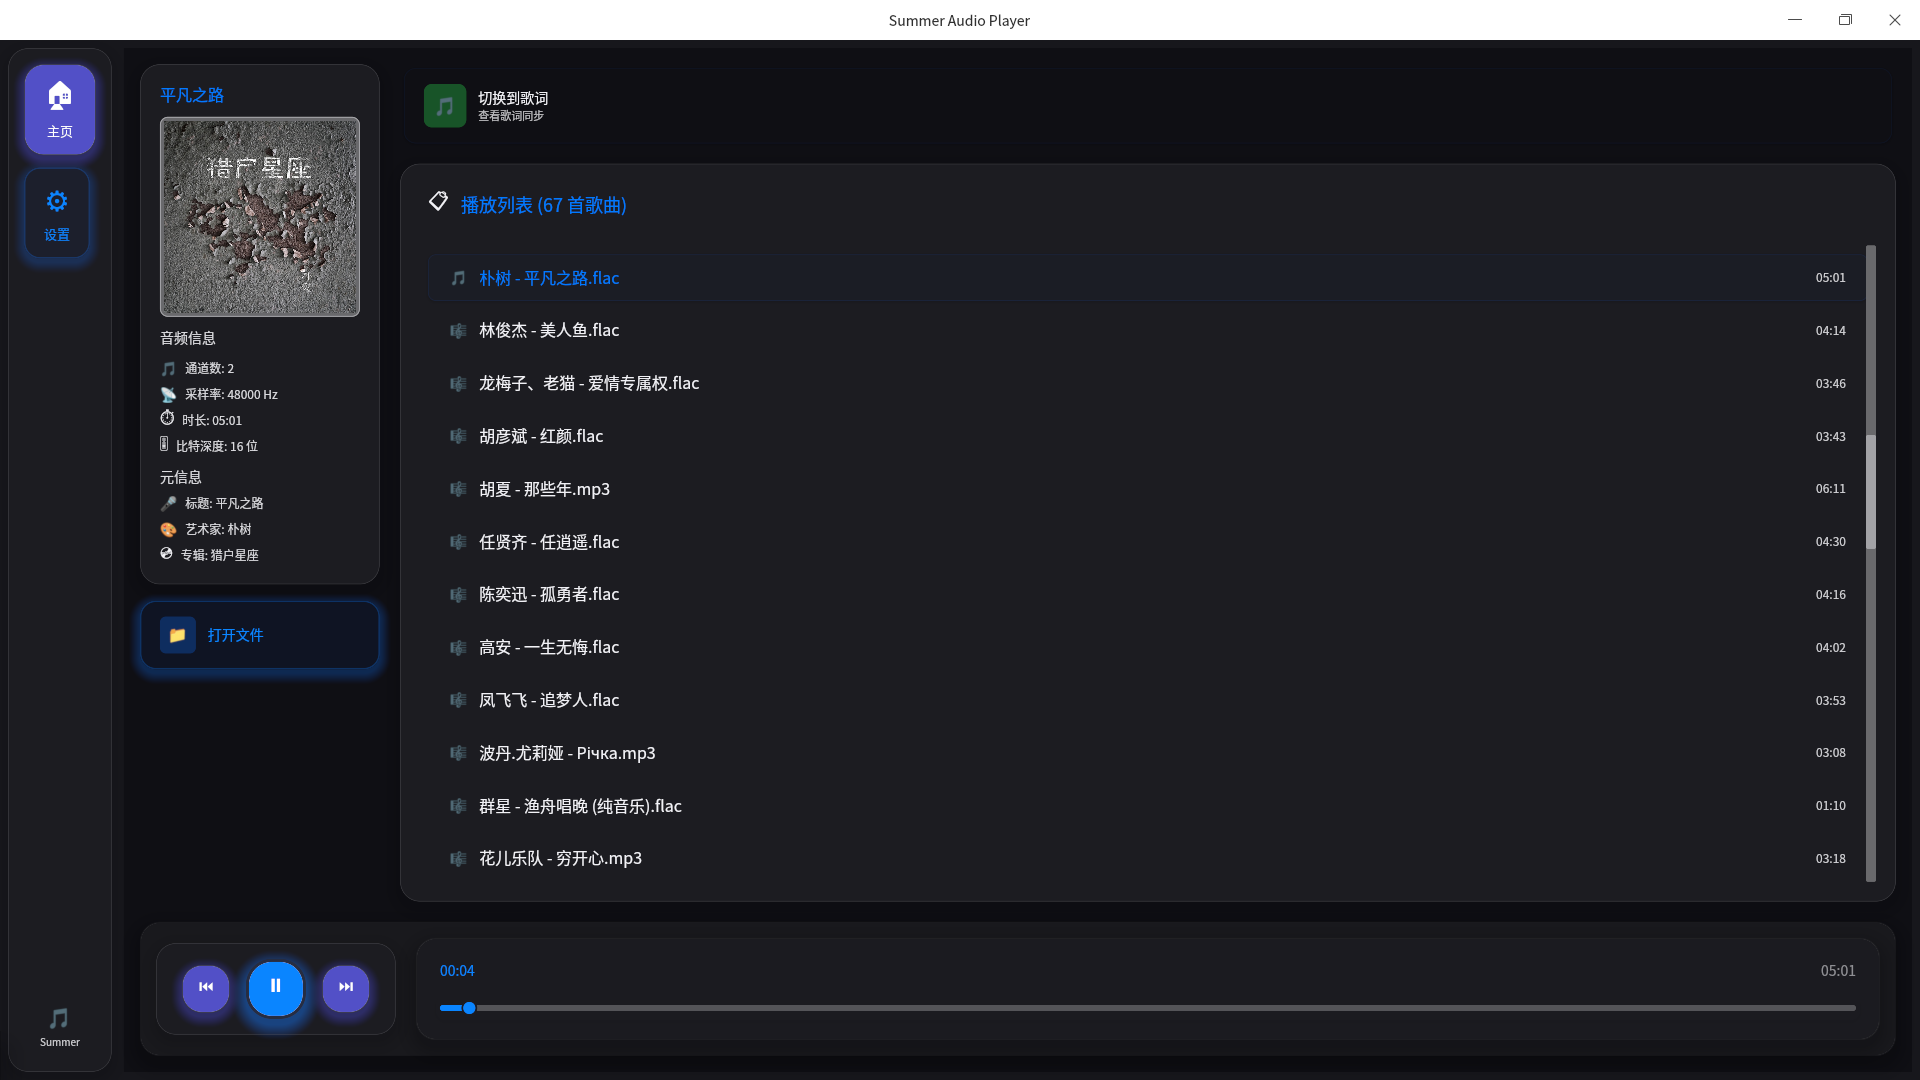
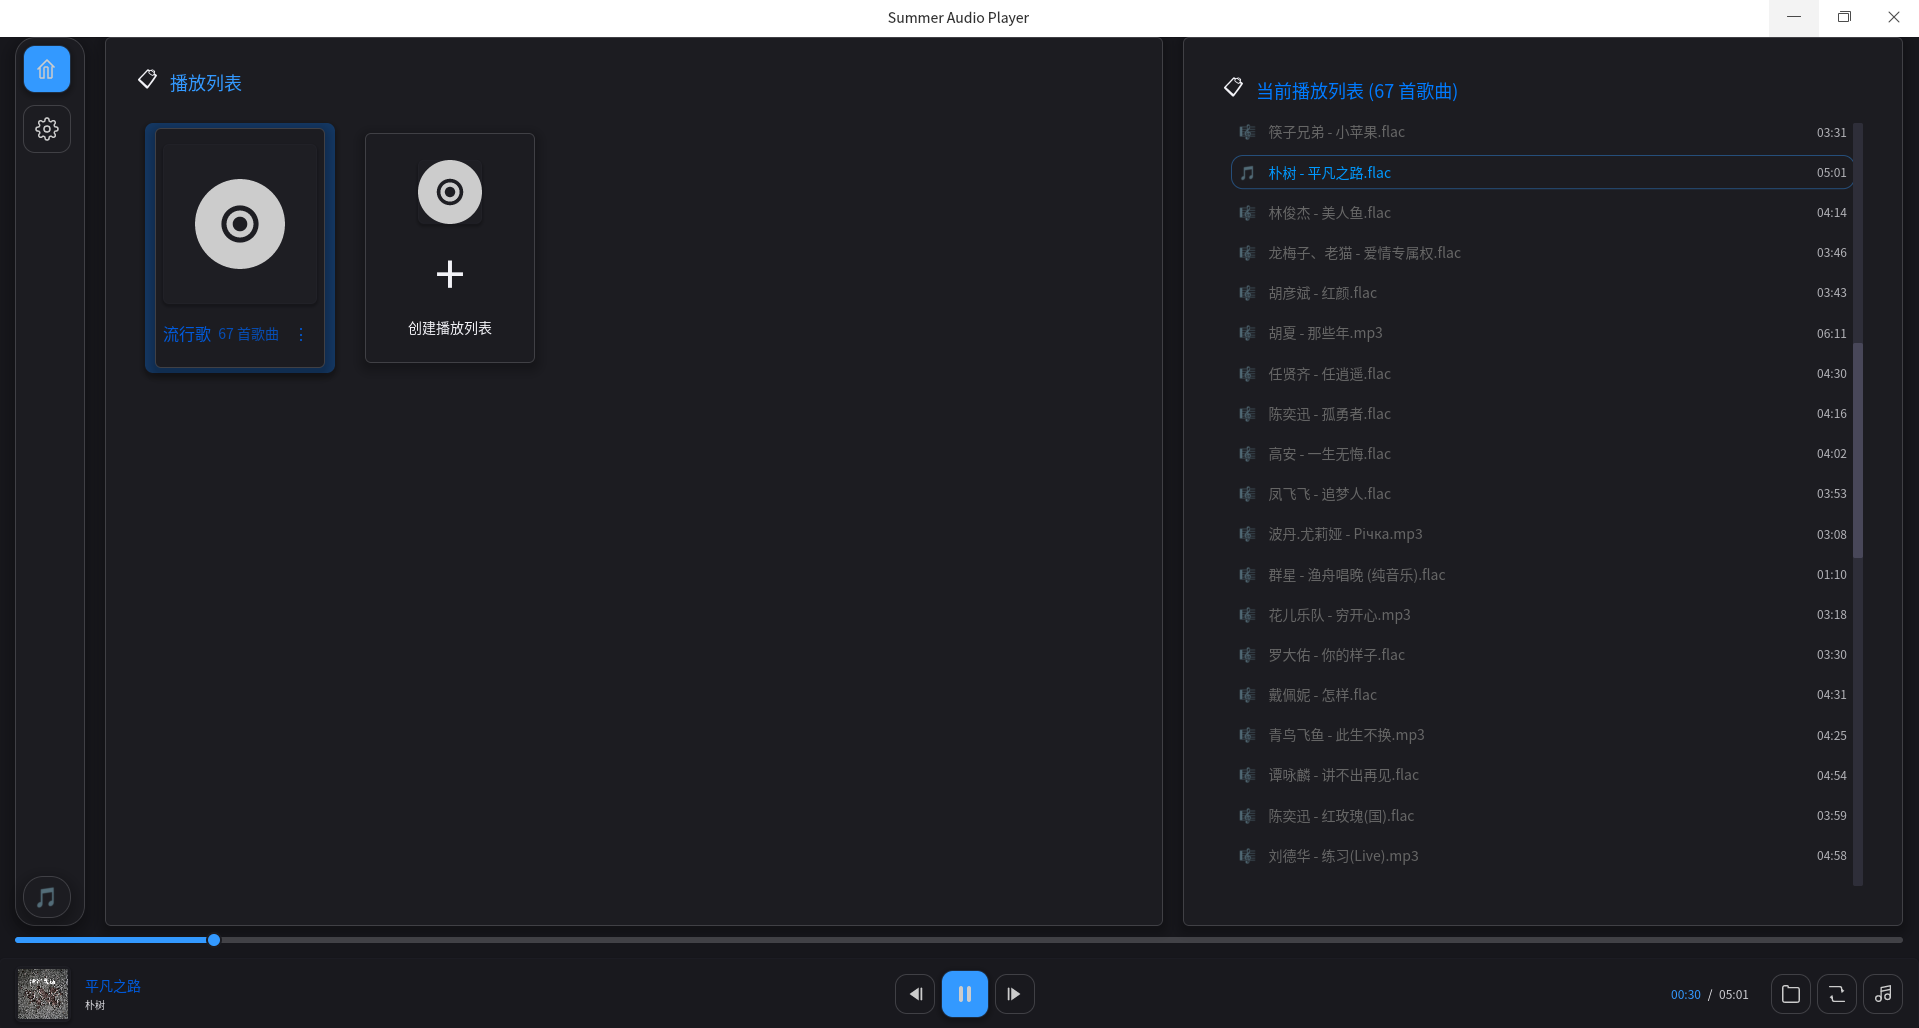
release v0.5.0

diff --git a/README.md b/README.md
@@ -21,12 +21,9 @@
 - 📁 **文件选择**: 内置文件选择器，支持多种音频格式过滤
 - ⏯ **播放控制**: 播放、暂停、停止功能
 - ⏮⏭ **播放列表控制**: 上一首、下一首切换
-- 🔊 **音量控制**: 可调节音量滑块
 - 📊 **进度显示**: 显示播放进度条和时间信息，支持拖拽跳转
-- 📈 **音频信息**: 显示音频文件的详细信息（采样率、声道数、比特率等）
 - 🎤 **歌词支持**: 支持LRC格式歌词文件显示
 - ⚙ **设置页面**: 完整的设置界面，支持主题和语言配置
-- 🎬 **视图切换动画**: 流畅的页面切换动画效果
 
 ## 依赖库
 
@@ -37,7 +34,6 @@
 - **clap**: 命令行参数解析
 - **rust-i18n**: 国际化支持
 - **sys-locale**: 系统语言检测
-- **anim**: 动画效果支持
 
 ## 编译和运行
 
@@ -128,144 +124,11 @@ cargo run -- --list-devices
 cargo run -- --info path/to/audio/file.mp3
 ```
 
-## 使用说明
-
-### 图形界面操作
-
-#### 主要功能
-1. **打开文件**: 点击"打开文件"按钮选择单个音频文件
-2. **打开播放列表**: 点击"打开播放列表"按钮选择M3U/M3U8播放列表文件
-3. **播放/暂停**: 点击"播放/暂停"按钮
-4. **停止**: 点击"停止"按钮停止播放并重置进度
-5. **上一首/下一首**: 在播放列表模式下使用"上一首"和"下一首"按钮
-6. **调节音量**: 拖动音量滑块调整音量（0-100%）
-7. **进度跳转**: 拖动进度条快速跳转到指定位置
-8. **播放列表选择**: 点击播放列表中的任意歌曲直接播放
-
-#### 导航和视图
-- **主页**: 音频播放和控制界面
-- **设置**: 主题切换、语言设置等配置选项
-- **视图切换**: 在播放列表和歌词视图之间切换
-- **侧边栏导航**: 使用左侧导航栏在不同页面间切换
-
-#### 多语言支持
-- **自动检测**: 程序自动检测系统语言设置
-- **手动切换**: 在设置页面手动选择界面语言
-- **支持语言**: 中文(zh-CN)、英文(en)
-
-#### 主题切换
-- **浅色主题**: 明亮清新的界面风格
-- **深色主题**: 护眼的暗色界面风格
-- **设置保存**: 主题设置会自动保存
-
-### 界面说明
-
-#### 主页面布局
-- **导航侧边栏**: 页面切换和应用信息
-- **文件信息区**: 显示当前加载的文件名和音频格式信息
-- **时间显示**: 显示当前播放时间和总时长
-- **进度条**: 显示播放进度，支持拖拽跳转
-- **控制按钮**: 文件选择、播放列表选择、播放控制
-- **音量控制**: 音量滑块和百分比显示
-
-#### 播放列表视图
-- **歌曲列表**: 显示播放列表中的所有歌曲
-- **当前播放**: 当前播放歌曲标记为▶
-- **歌曲信息**: 显示歌曲名称和时长
-- **滚动支持**: 长播放列表支持滚动查看
-
-#### 歌词视图
-- **LRC歌词**: 支持标准LRC格式歌词文件
-- **同步显示**: 歌词与播放进度实时同步
-- **自动加载**: 自动查找同名歌词文件
-
-#### 设置页面
-- **主题选择**: 浅色/深色主题切换
-- **语言设置**: 界面语言选择
-- **音频设置**: 输出设备等配置选项
-
-## 支持的音频格式
-
-- MP3 (MPEG Audio Layer 3)
-- FLAC (Free Lossless Audio Codec)
-- WAV (Waveform Audio Format)
-- OGG (Ogg Vorbis)
-- AAC (Advanced Audio Codec)
-- M4A (MPEG-4 Audio)
-- M4S (MPEG-4 Segment)
-
-## 播放列表支持
-
-### M3U/M3U8格式
-
-程序支持标准的M3U和M3U8播放列表格式：
-
-```m3u
-#EXTM3U
-#EXTINF:180,Artist - Song 1
-song1.mp3
-#EXTINF:240,Artist - Song 2
-song2.flac
-#EXTINF:200,Artist - Song 3
-song3.wav
-```
-
-### 播放列表功能
-
-- **自动解析**: 自动解析M3U/M3U8文件中的音频文件路径
-- **相对路径支持**: 支持相对于播放列表文件的相对路径
-- **绝对路径支持**: 支持绝对路径的音频文件
-- **时长显示**: 自动获取并显示每首歌曲的播放时长
-- **错误处理**: 跳过不存在的文件并显示警告信息
-- **播放控制**: 支持上一首/下一首切换
-- **直接选择**: 点击播放列表中的任意歌曲直接播放
-
-## 技术架构
-
-### 模块化设计
-
-项目采用模块化设计，将功能按领域分离：
-
-- **`src/lib.rs`**: 库入口，重新导出主要类型
-- **`src/error.rs`**: 统一的错误处理系统
-- **`src/config.rs`**: 配置管理和常量定义
-- **`src/utils.rs`**: 通用工具函数
-- **`src/audio/`**: 音频处理模块
-  - `file.rs`: 音频文件处理和信息提取
-  - `device.rs`: 音频设备管理
-  - `playback.rs`: 播放控制和状态管理
-  - `decoder.rs`: 音频解码器
-  - `stream.rs`: 音频流处理
-- **`src/playlist.rs`**: 播放列表管理
-- **`src/lyrics.rs`**: 歌词处理和显示
-- **`src/ui/`**: 用户界面模块
-  - `app.rs`: 主应用程序逻辑
-  - `messages.rs`: UI消息定义
-  - `components.rs`: 可重用UI组件
-  - `animation.rs`: 动画效果
-  - `theme.rs`: 主题系统
-- **`src/main.rs`**: 命令行入口和CLI处理
-
-### 架构优势
-
-- **模块化**: 清晰的功能分离和模块边界
-- **可维护性**: 代码结构清晰，易于理解和修改
-- **可扩展性**: 为新功能扩展提供良好基础
-- **国际化**: 完整的多语言支持系统
-- **主题系统**: 灵活的主题切换机制
-- **响应式设计**: 自适应不同窗口大小
-- **异步处理**: 文件选择和音频处理使用异步模式
-- **响应式UI**: 基于消息传递的事件驱动架构
-- **跨平台**: 支持Linux、Windows、macOS
-- **类型安全**: 统一的错误处理和类型系统
-- **测试友好**: 模块化设计便于单元测试
-
 ## 开发计划
 
 ### 已完成 ✅
 - [x] 实现真正的音频播放功能
 - [x] 添加播放列表功能
-- [x] 模块化代码重构
 - [x] 统一错误处理系统
 - [x] 完善文档和注释
 - [x] 添加播放进度条拖拽跳转功能
@@ -273,31 +136,31 @@ song3.wav
 - [x] 添加多语言国际化
 - [x] 添加设置页面
 - [x] 重构UI布局，增加导航侧边栏
-- [x] 添加视图切换动画效果
 - [x] 添加歌词显示功能
 - [x] 添加播放模式（循环、随机等）
 - [x] 调整歌词界面动画方向为上下切换
 - [x] 解析文件内嵌歌词信息
+- [x] 添加配置文件保存用户配置
+- [x] 添加播放列表新建、重命名等编辑功能
+- [x] 多播放列表页面视图
 
 ### 进行中 🚧
 - [ ] 添加更多单元测试
 - [ ] 完善主题切换功能
 
 ### 计划中 📋
-- [ ] 添加配置文件保存用户配置
 - [ ] 添加音频可视化
 - [ ] 添加均衡器
 - [ ] 添加拖放文件支持
 - [ ] 添加键盘快捷键
 - [ ] 添加播放状态实时同步
-- [ ] 添加播放列表保存功能
 - [ ] 性能优化和内存使用改进
 - [ ] 添加更多语言支持
 - [ ] 自动扫描音乐
-- [ ] 多播放列表页面视图
 - [ ] 托盘功能
 - [ ] 自动更新检测
 - [ ] 添加更多的动画效果
+- [ ] 添加id3标签编辑功能
 
 ## 许可证
 
@@ -324,6 +187,7 @@ MIT License - 详见LICENSE文件
 - ☀ 太阳光芒效果
 
 ## 项目历史
+- **v0.5.0**: 重构整个UI布局，统一布局风格，新增播放列表卡片和播放列表编辑功能,iced库切换到0.14版本
 - **v0.4.0**: 重构整个UI布局，增加导航侧边栏、多语言支持、主题切换、设置页面
 - **v0.3.0**: 重命名为 Summer Player，添加夏日主题和专用图标
 - **v0.2.x**: 从TUI迁移到GUI，添加播放列表和歌词支持
